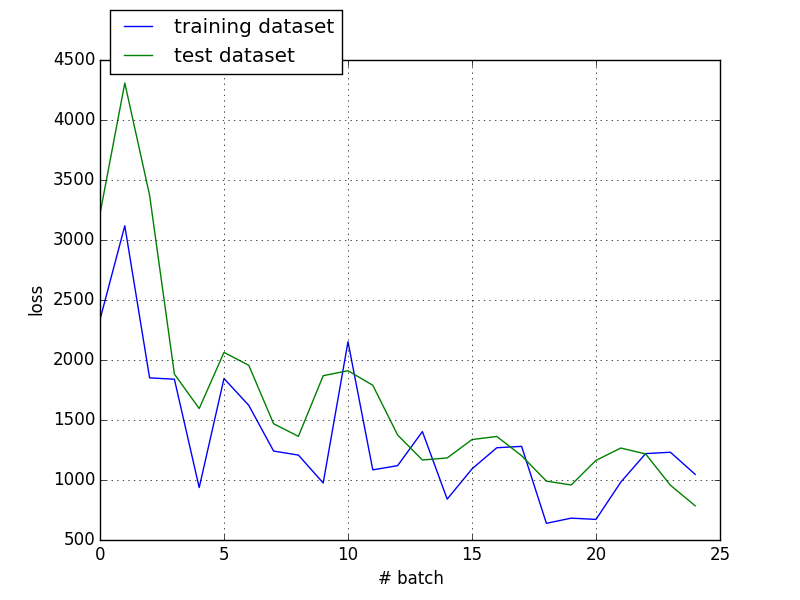
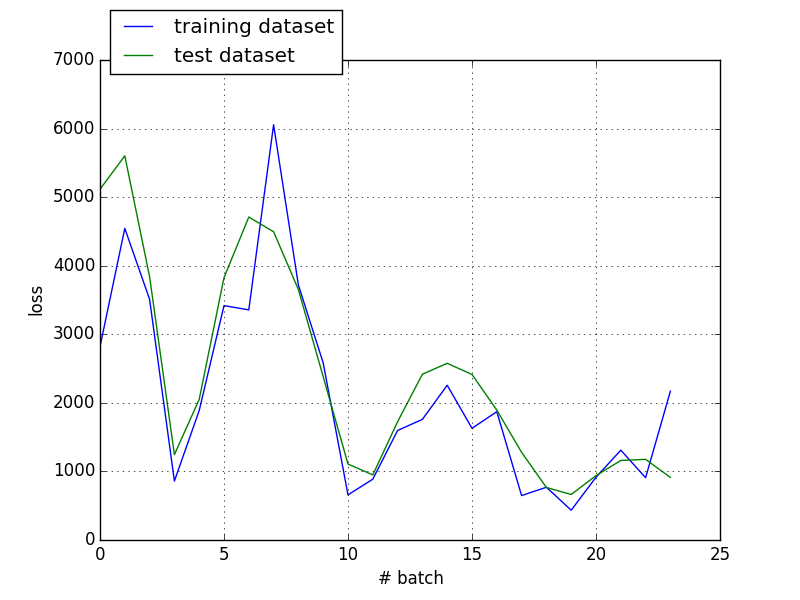
dropout added

diff --git a/classifySadOrHappyRandomResults.py b/classifySadOrHappyRandomResults.py
@@ -71,6 +71,8 @@ def createDataSets(smilePath, nonSmilePath, dataSetSize, testingSplit):
 def tensorPart(trainingSet,trainingLabels,testingSet,testingLabels,batchSize):
     X = tf.placeholder(tf.float32, [None, 320, 240, 3])
     Y_ = tf.placeholder(tf.float32, [None, 2])
+    learning_rate = tf.placeholder(tf.float32)
+    keep_prob = tf.placeholder(tf.float32)  # dropout (keep probability)
 
     # weight 1
     W1 = tf.Variable(tf.truncated_normal([5, 5, 3, 12], stddev=0.1))
@@ -84,6 +86,8 @@ def tensorPart(trainingSet,trainingLabels,testingSet,testingLabels,batchSize):
 
     # reshape
     YY = tf.reshape(pool1, shape=[-1, 120 * 160 * 12])  # 160*120 structure
+    # Apply Dropout
+    YY = tf.nn.dropout(YY, keep_prob)
 
     # weight 2
     W2 = tf.Variable(tf.truncated_normal([160 * 120 * 12, 2], stddev=0.1))
@@ -98,7 +102,6 @@ def tensorPart(trainingSet,trainingLabels,testingSet,testingLabels,batchSize):
     # accuracy of the trained model, between 0 (worst) and 1 (best)
     correct_prediction = tf.equal(tf.argmax(Y, 1), tf.argmax(Y_, 1))
     accuracy = tf.reduce_mean(tf.cast(correct_prediction, tf.float32))
-    learning_rate = tf.placeholder(tf.float32)
     train_step = tf.train.AdamOptimizer(learning_rate).minimize(cross_entropy)
 
     init = tf.global_variables_initializer()
@@ -110,6 +113,9 @@ def tensorPart(trainingSet,trainingLabels,testingSet,testingLabels,batchSize):
     decay_rate = 0.95
     decay_steps = 500
     stepCounter = 0
+
+    # set dropout keep probability
+    dropout = 0.80
 
     # sets to plot
     train_a = []
@@ -136,11 +142,11 @@ def tensorPart(trainingSet,trainingLabels,testingSet,testingLabels,batchSize):
         batch_Y = np.asarray(trainingLabels[batchBegin:batchEnd])
 
         # train
-        sess.run(train_step, feed_dict={X: batch_X, Y_: batch_Y, learning_rate:lr})
-        a, c = sess.run([accuracy, cross_entropy], feed_dict={X: batch_X, Y_: batch_Y})
+        sess.run(train_step, feed_dict={X: batch_X, Y_: batch_Y, learning_rate:lr, keep_prob:dropout})
+        a, c = sess.run([accuracy, cross_entropy], feed_dict={X: batch_X, Y_: batch_Y, keep_prob:1.0})
         train_a.append(a)
         train_c.append(c)
-        a, c = sess.run([accuracy, cross_entropy], feed_dict={X: testingSet, Y_: testingLabels})
+        a, c = sess.run([accuracy, cross_entropy], feed_dict={X: testingSet, Y_: testingLabels, keep_prob:1.0})
         test_a.append(a)
         test_c.append(c)
 
